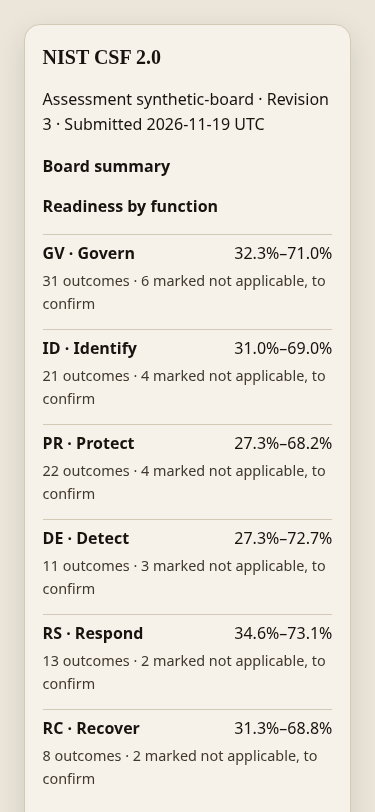
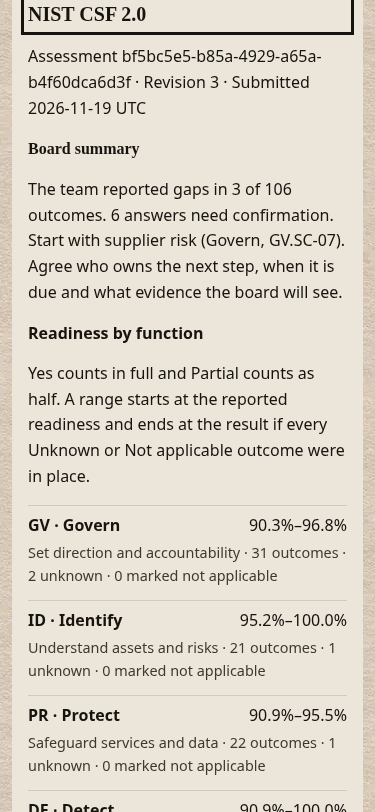
Explain NIST readiness and give the board a next decision

Changed region(s): [[0.0, 0.0, 0.9387, 1.0], [0.9387, 0.0, 1.0, 1.0], [0.6453, 0.9544, 0.9387, 1.0]]

diff --git a/api/shared/protectedAssets/paidResults.js b/api/shared/protectedAssets/paidResults.js
@@ -10,6 +10,36 @@
         ['nf-nist-csf-2-0-core', ['2026-09-08.1', 'nist-cybersecurity-framework', '2.0', 'NIST CSF 2.0']],
         ['nf-iso-27001-2022-readiness', ['2026-11-19.1', 'iso-iec-27001', '2022', 'ISO 27001 readiness self-assessment']]
     ]);
+    // Board prompts are editorial guidance. The registered publication supplies the
+    // outcomes, response factors, function order and attribution.
+    const functionPurpose = {
+        GV: 'Set direction and accountability', ID: 'Understand assets and risks', PR: 'Safeguard services and data',
+        DE: 'Spot signs of an incident', RS: 'Manage an incident', RC: 'Restore services'
+    };
+    const nistTopics = {
+        'GV.OC': { topic: 'business needs', action: 'Pick a critical service and ask who relies on it and which commitments are at stake.' },
+        'GV.RM': { topic: 'risk decisions', action: 'Ask the risk owner to show how a recent cyber risk decision was made.' },
+        'GV.RR': { topic: 'roles and responsibilities', action: 'Name the person accountable for this outcome and check they have the authority to act.' },
+        'GV.PO': { topic: 'security policy', action: 'Ask the policy owner to show where staff find the current policy and how changes reach them.' },
+        'GV.OV': { topic: 'oversight', action: 'Agree which evidence the board will review and when it will check progress.' },
+        'GV.SC': { topic: 'supplier risk', action: 'Choose a critical supplier and ask its owner to show how this outcome is checked.' },
+        'ID.AM': { topic: 'assets and dependencies', action: 'Trace one critical service and check its assets and dependencies against the inventory.' },
+        'ID.RA': { topic: 'assessing risk', action: 'Ask the risk owner to walk through a recent assessment and its evidence.' },
+        'ID.IM': { topic: 'learning from experience', action: 'Choose a lesson from a recent review and check who will act on it.' },
+        'PR.AA': { topic: 'identity and access', action: 'Ask the system owner to demonstrate this access safeguard on a critical service.' },
+        'PR.AT': { topic: 'staff training', action: 'Ask someone in the affected role to demonstrate what they would do in a realistic situation.' },
+        'PR.DS': { topic: 'protecting data', action: 'Choose a sensitive record and check how it is protected throughout its use.' },
+        'PR.PS': { topic: 'platform security', action: 'Ask the platform owner to show the safeguard working on a system in scope.' },
+        'PR.IR': { topic: 'keeping services running', action: 'Rehearse a disruption with the service owner and record how the service would keep running.' },
+        'DE.CM': { topic: 'security monitoring', action: 'Ask the monitoring team to show what it can see for one critical service and where coverage stops.' },
+        'DE.AE': { topic: 'investigating unusual activity', action: 'Walk through a recent alert and check what information helped staff decide what to do.' },
+        'RS.MA': { topic: 'managing incidents', action: 'Rehearse an incident handover and check who can make the next decision.' },
+        'RS.AN': { topic: 'incident analysis', action: 'Ask an investigator to show how they established what happened in a sample incident.' },
+        'RS.CO': { topic: 'incident communications', action: 'Practise one incident update and check who must send it and who needs to receive it.' },
+        'RS.MI': { topic: 'limiting incident damage', action: 'Ask responders to demonstrate how they would contain a realistic incident.' },
+        'RC.RP': { topic: 'restoring services', action: 'Ask the recovery lead to exercise this outcome and show what needs to change.' },
+        'RC.CO': { topic: 'recovery communications', action: 'Practise a recovery update and check that affected people receive the information they need.' }
+    };
     const inOrder = rows => [...rows].sort((a, b) => a.order - b.order);
     function requireValue(condition) {
         if (!condition) throw new Error('paid_results_unavailable');
@@ -48,7 +78,7 @@
                 const reason = answer.rationale?.text;
                 requireValue(option.applicable ? answer.rationale === null :
                     (!iso || annex) && typeof reason === 'string' && reason.trim().length > 0);
-                const row = { id: control.id, title: control.title, status: option.label, reason, applies: option.applicable,
+                const row = { id: control.id, domainId: control.domainId, title: control.title, status: option.label, reason, applies: option.applicable,
                     factor: option.implementationFactor, weight: question.weight, action: question.guidance.startingActions[0] };
                 groups.get(control.domainId).rows.push(row);
                 if (annex) statement.push(row);
@@ -59,7 +89,32 @@
         const rank = row => row.factor === null ? 2 : row.factor;
         gaps.sort((a, b) => rank(a) - rank(b));
         return { title: expected[3], iso, identity: 'Assessment ' + a.assessmentId + ' · Revision ' + a.revision + ' · Submitted ' + a.submission.submittedAt.slice(0, 10) + ' UTC',
+            boardBrief: iso ? null : nistBoardBrief(gaps, answers.size, groups),
             groups: domains.map(domain => groupSummary(domain, iso)), statement, gaps: gaps.slice(0, 3) };
+    }
+
+    function nistBoardBrief(gaps, total, groups) {
+        if (!gaps.length) return 'The team marked all ' + total + ' outcomes Yes. At the next board meeting, ask a service owner to show recent evidence that these practices are working.';
+        const first = gaps[0], functionName = groups.get(first.domainId).title;
+        const toConfirm = gaps.filter(row => row.factor === null).length;
+        const known = gaps.length - toConfirm;
+        const counts = 'The team reported gaps in ' + known + ' of ' + total + ' outcomes. ' +
+            (toConfirm ? toConfirm + (toConfirm === 1 ? ' answer needs' : ' answers need') + ' confirmation.' : 'None were marked Unknown or Not applicable.');
+        const priority = nistTopic(first).topic + ' (' + functionName + ', ' + first.id + ')';
+        const decision = known
+            ? 'Start with ' + priority + '. Agree who owns the next step, when it is due and what evidence the board will see.'
+            : 'Ask management to check the answer about ' + priority + ' and bring supporting evidence to the next meeting.';
+        return counts + ' ' + decision;
+    }
+
+    function nistTopic(row) {
+        return nistTopics[row.id.split('-')[0]] || { topic: row.title, action: row.action };
+    }
+
+    function nistGapAction(gap) {
+        if (gap.factor !== null) return nistTopic(gap).action;
+        return gap.applies ? 'Find the person who can answer this question and ask for a dated example.'
+            : 'Check the recorded reason against the scope and confirm whether this outcome applies.';
     }
 
     function groupSummary(domain, iso) {
@@ -79,7 +134,8 @@
         const applicable = domain.rows.length - excluded;
         return { title: domain.id + ' · ' + domain.title, readiness,
             detail: iso ? applicable + ' applicable · ' + excluded + ' marked not applicable' :
-                domain.rows.length + ' outcomes · ' + excluded + ' marked not applicable, to confirm' };
+                functionPurpose[domain.id] + ' · ' + domain.rows.length + ' outcomes · ' +
+                    domain.rows.filter(row => row.applies && row.factor === null).length + ' unknown · ' + excluded + ' marked not applicable' };
     }
 
     function mount(container, { record, publication, isCurrent, authoriseExport }) {
@@ -114,7 +170,9 @@
         panel.append(heading, node('p', model.identity));
         const board = node('section');
         const groupHeading = 'Readiness by ' + (model.iso ? 'clause group and theme' : 'function');
-        board.append(node('h3', 'Board summary'), node('h4', groupHeading));
+        board.append(node('h3', 'Board summary'));
+        if (model.boardBrief) board.append(node('p', model.boardBrief));
+        board.append(node('h4', groupHeading));
         const list = node('ul', undefined, 'paid-readiness-groups');
         const groupLines = model.groups.map(group => group.title + ' — ' + group.readiness + ' (' + group.detail + ')');
         for (const group of model.groups) {
@@ -122,19 +180,24 @@
             item.append(node('strong', group.title), node('span', group.readiness), node('small', group.detail));
             list.append(item);
         }
-        const explanation = 'Figures use the answers in this submission. Partly in place counts as half. ' +
-            (model.iso ? 'Items marked not applicable are excluded.' :
-                'Unknown answers and claims of non-applicability stay in the range until confirmed.');
-        board.append(list, node('p', explanation), node('h4', 'Top gaps'));
+        const explanation = model.iso
+            ? 'Figures use the answers in this submission. Partly in place counts as half. Items marked not applicable are excluded.'
+            : 'Yes counts in full and Partial counts as half. A range starts at the reported readiness and ends at the result if every Unknown or Not applicable outcome were in place.';
+        if (model.iso) board.append(list, node('p', explanation));
+        else board.append(node('p', explanation), list);
+        board.append(node('h4', 'Top gaps'));
         const gapList = node('ol'), gapLines = [];
         for (const gap of model.gaps) {
             const label = gap.id + ' · ' + gap.title + ' — ' + gap.status;
             const item = node('li'); item.append(node('strong', label));
-            if (gap.action) item.append(node('p', gap.action));
+            const action = model.iso ? gap.action : nistGapAction(gap);
+            if (action) item.append(node('p', action));
             gapList.append(item);
             gapLines.push(label);
         }
-        const gapNote = gapLines.length ? 'Lower reported readiness comes first. Ties follow publication order.' :
+        const gapOrder = model.iso ? 'Lower reported readiness comes first. Ties follow publication order.' :
+            'Outcomes marked No come first, followed by those marked Partial. Unknown and Not applicable answers are items to check. Ties follow questionnaire order.';
+        const gapNote = gapLines.length ? gapOrder :
             'No gaps were identified in the applicable answers.';
         board.append(node('p', gapNote), gapList);
         const limit = model.iso ? 'This is a readiness self-assessment, not certification. For accredited certification, use an accredited certification body.' :
@@ -173,7 +236,7 @@
             }
             section.append(controls, notice);
         }
-        exportControls(board, 'Board summary', ['Board summary', model.title, model.identity, groupHeading,
+        exportControls(board, 'Board summary', ['Board summary', model.title, model.identity, ...(model.boardBrief ? [model.boardBrief] : []), groupHeading,
             ...groupLines, explanation, 'Top gaps', gapNote, ...gapLines, limit], [groupHeading, 'Top gaps']);
         if (model.iso) {
             const section = node('section'), title = 'Statement of Applicability';

diff --git a/test/paidResults.test.js b/test/paidResults.test.js
@@ -40,7 +40,7 @@ test.each([true, false])('sealed grouped results and explicit exports, ISO=%s', 
         expect(view.copied.mock.calls[1][0]).toContain(reason);
         expect(view.root.querySelector('em')).toBeNull();
     } else {
-        expect(view.copied.mock.calls[0][0]).toContain('GV · Govern — 32.3%–71.0% (31 outcomes · 6 marked not applicable, to confirm)');
+        expect(view.copied.mock.calls[0][0]).toContain('GV · Govern — 32.3%–71.0% (Set direction and accountability · 31 outcomes · 6 unknown · 6 marked not applicable)');
         expect(view.copied.mock.calls[0][0]).toContain('Republished courtesy');
     }
 });
@@ -71,7 +71,8 @@ test('the shared authenticated application serves the free questionnaire without
     vm.runInNewContext(app.body, browser);
     expect(typeof browser.NoFriesNcscQuestionnaire.mount).toBe('function');
     expect(browser.NoFriesPaidResults).toBeUndefined();
-    expect(app.body).not.toContain('Unknown answers and claims of non-applicability stay in the range');
+    expect(app.body).not.toContain('A range starts at the reported readiness');
+    expect(app.body).not.toContain('what evidence the board will see');
     expect(app.body).not.toContain('No applicable controls');
 });
 test.each([true, false])('read-only results show the selected submission without a report export or plan write, ISO=%s', iso => {
@@ -102,4 +103,61 @@ test('a pending grant cannot export after a generation change or a replacement s
     expect(view.printed).not.toHaveBeenCalled();
     expect(view.root.textContent).toContain('NIST CSF 2.0');
     expect(view.root.textContent).not.toContain(reason);
+});
+
+function nistAnswers(overrides, defaultAnswer = 'yes') {
+    const data = fixture(false);
+    for (const answer of data.record.assessment.responses) {
+        answer.optionId = overrides[answer.itemId] || defaultAnswer;
+        answer.rationale = answer.optionId === 'not_applicable' ? { text: reason } : null;
+    }
+    return render(data);
+}
+
+test('the NIST board counts all reported gaps and uncertain answers before selecting the top three', () => {
+    const view = render(fixture(false));
+    expect(view.root.textContent).toContain('The team reported gaps in 42 of 106 outcomes. 42 answers need confirmation.');
+    expect(view.root.textContent).toContain('Start with business needs (Govern, GV.OC-04). Agree who owns the next step');
+    expect(view.root.querySelector('ul').children.map(row => row.children[0].textContent))
+        .toEqual(['GV · Govern', 'ID · Identify', 'PR · Protect', 'DE · Detect', 'RS · Respond', 'RC · Recover']);
+    expect(view.root.querySelector('ol').children).toHaveLength(3);
+});
+
+test('a known NIST gap leads the board decision before uncertain answers in earlier functions', () => {
+    const view = nistAnswers({ 'GV.OC-01-Q1': 'unknown', 'ID.AM-01-Q1': 'not_applicable', 'RC.RP-01-Q1': 'partial' });
+    expect(view.root.textContent).toContain('1 of 106 outcomes. 2 answers need confirmation.');
+    expect(view.root.textContent).toContain('Start with restoring services (Recover, RC.RP-01). Agree who owns the next step');
+    const gaps = view.root.querySelector('ol').children;
+    expect(gaps[0].textContent).toContain('Ask the recovery lead');
+    expect(gaps[1].textContent).toContain('Find the person who can answer');
+    expect(gaps[2].textContent).toContain('Check the recorded reason against the scope');
+    expect(view.buttons()).toHaveLength(0);
+});
+
+test('unconfirmed NIST outcomes prompt a check and all-Yes outcomes prompt an evidence review', () => {
+    const uncertain = nistAnswers({ 'PR.AA-01-Q1': 'not_applicable' });
+    expect(uncertain.root.textContent).toContain('0 of 106 outcomes. 1 answer needs confirmation.');
+    expect(uncertain.root.textContent).toContain('Ask management to check the answer about identity and access (Protect, PR.AA-01)');
+    const complete = nistAnswers({});
+    expect(complete.root.textContent).toContain('The team marked all 106 outcomes Yes.');
+    expect(complete.root.textContent).toContain('ask a service owner to show recent evidence');
+    expect(complete.root.querySelector('ol').children).toHaveLength(0);
+    expect(render(fixture(true)).root.textContent).not.toContain('of 106 outcomes');
+});
+
+test('each published NIST category has a board topic and a suggested next step for a reported gap', () => {
+    const { publication } = fixture(false);
+    const categories = new Set();
+    for (const question of publication.questions) {
+        const category = question.controlId.split('-')[0];
+        if (categories.has(category)) continue;
+        categories.add(category);
+        const view = nistAnswers({ [question.id]: 'no' });
+        const gap = view.root.querySelector('ol').children[0];
+        expect(view.root.textContent).toContain('Start with ');
+        expect(view.root.textContent).toContain(', ' + question.controlId + ').');
+        expect(gap.children[1].textContent).not.toBe(question.guidance.startingActions[0]);
+        expect(gap.children[1].textContent.length).toBeGreaterThan(0);
+    }
+    expect(categories.size).toBe(22);
 });
